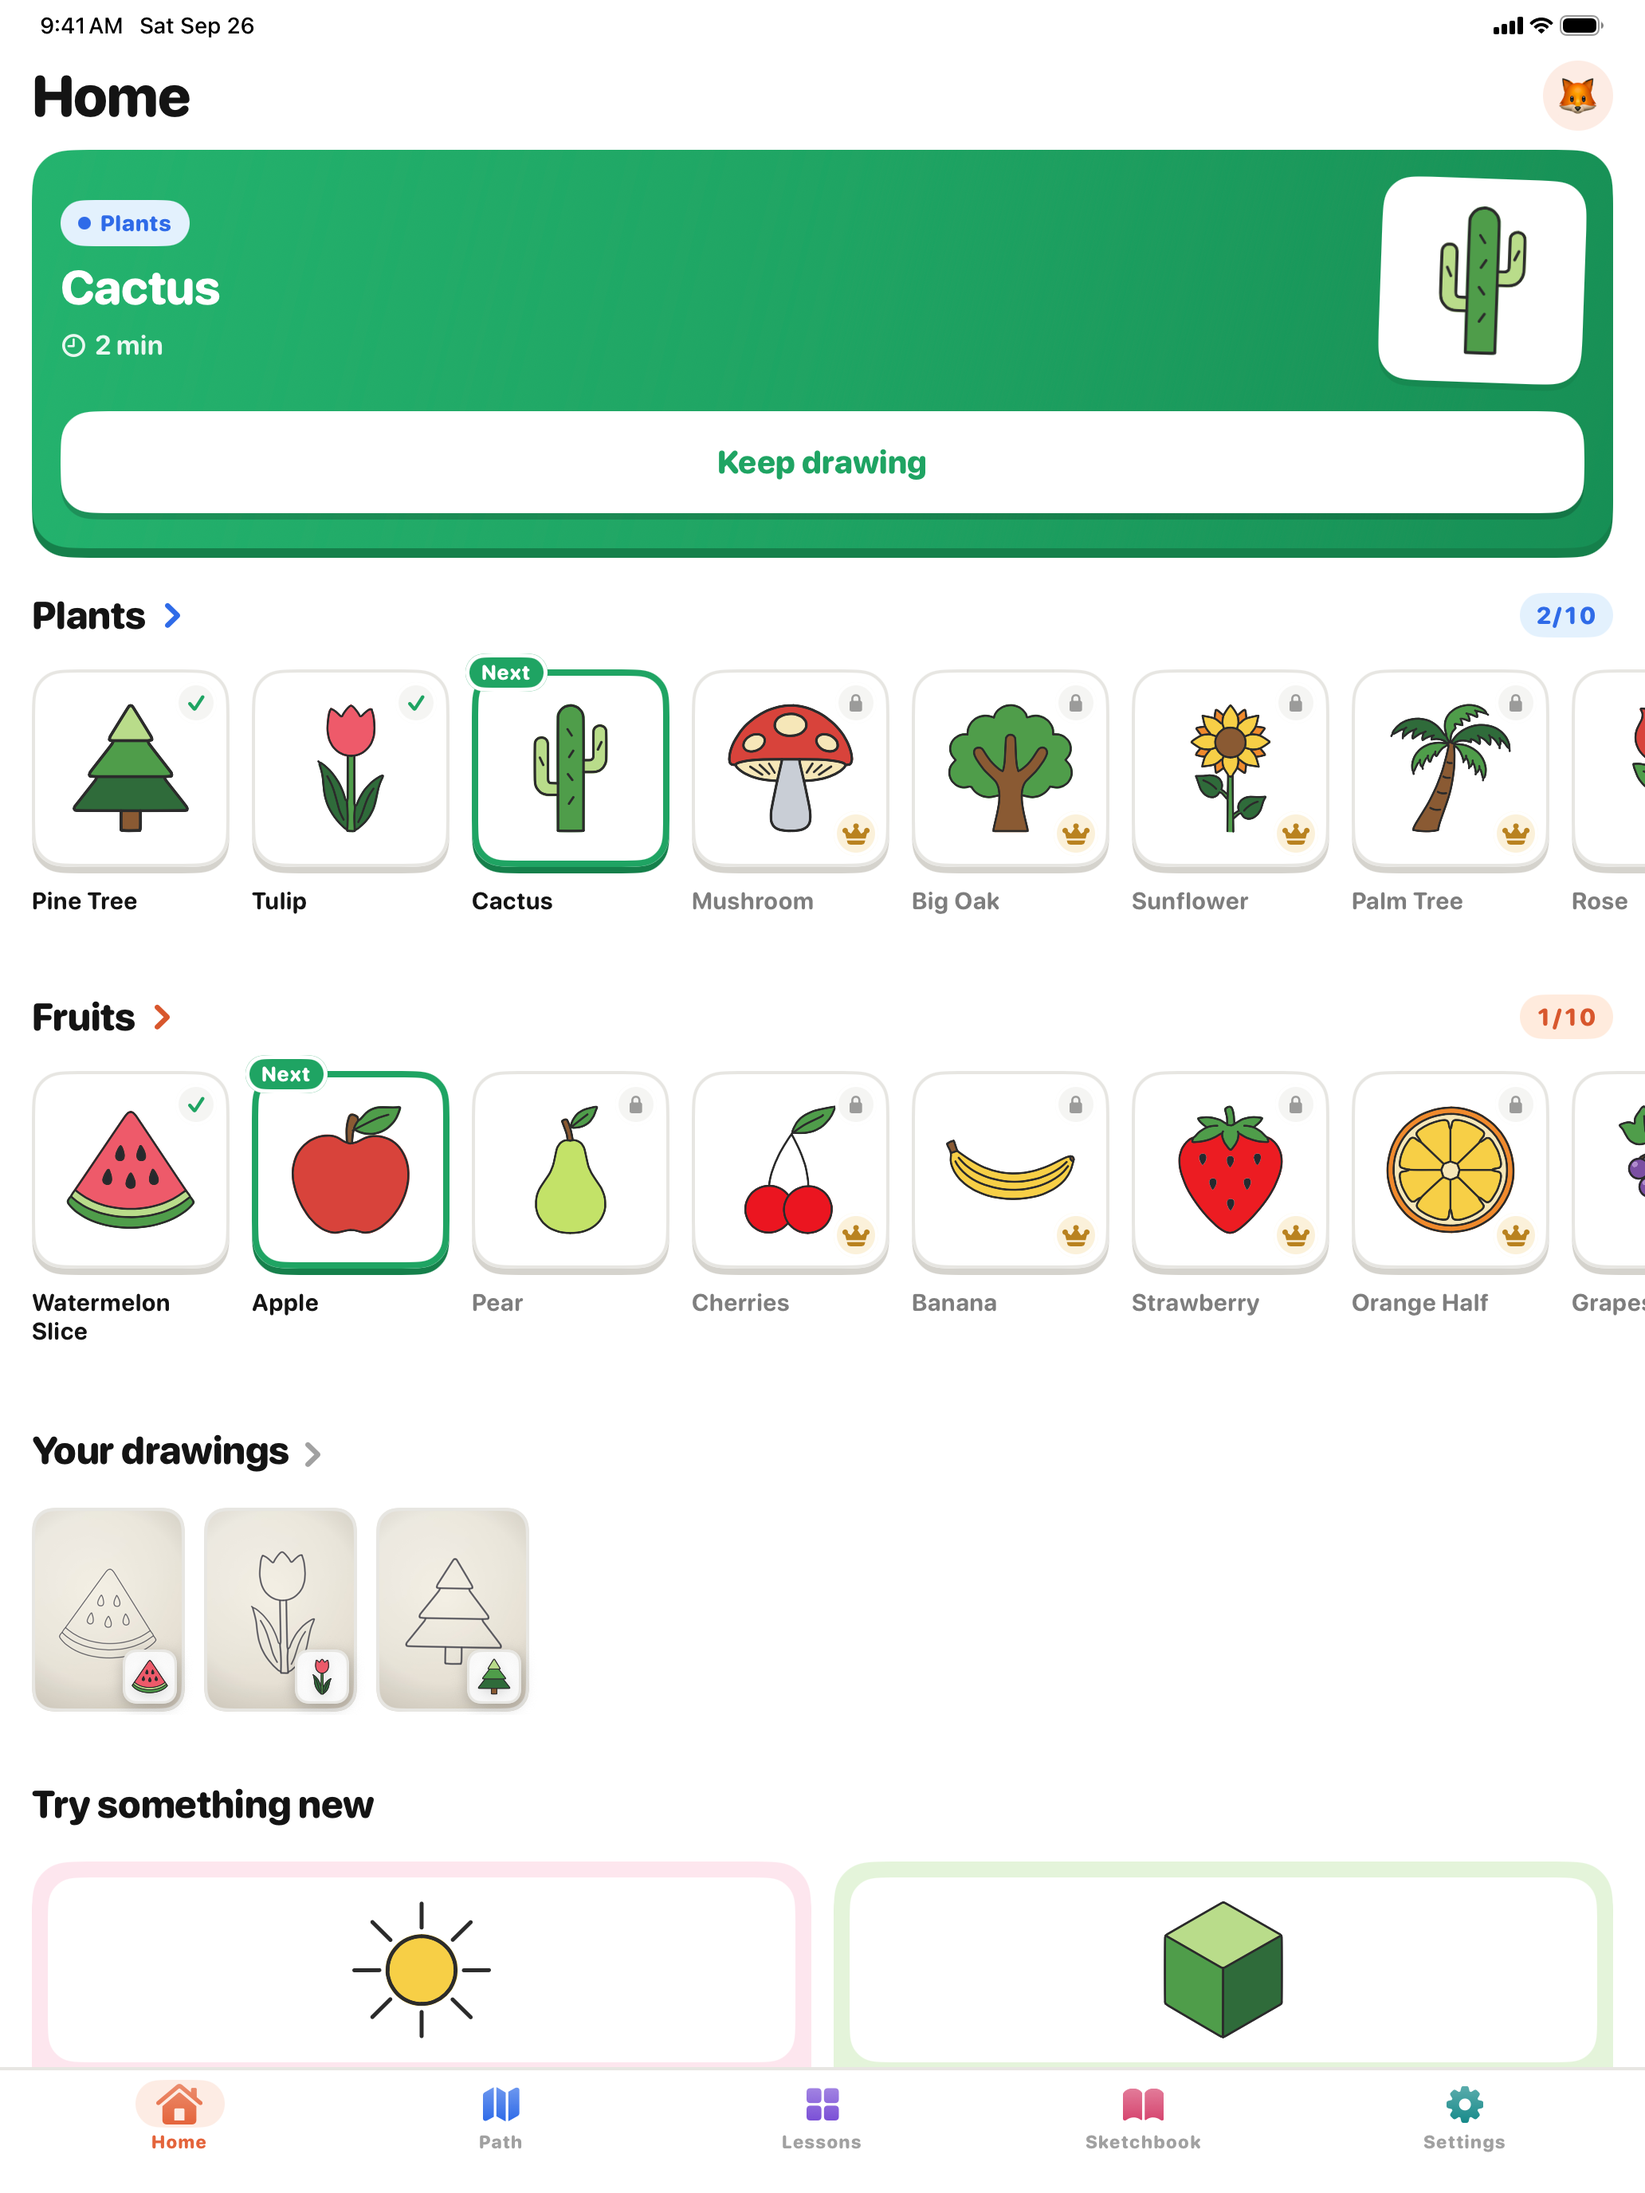
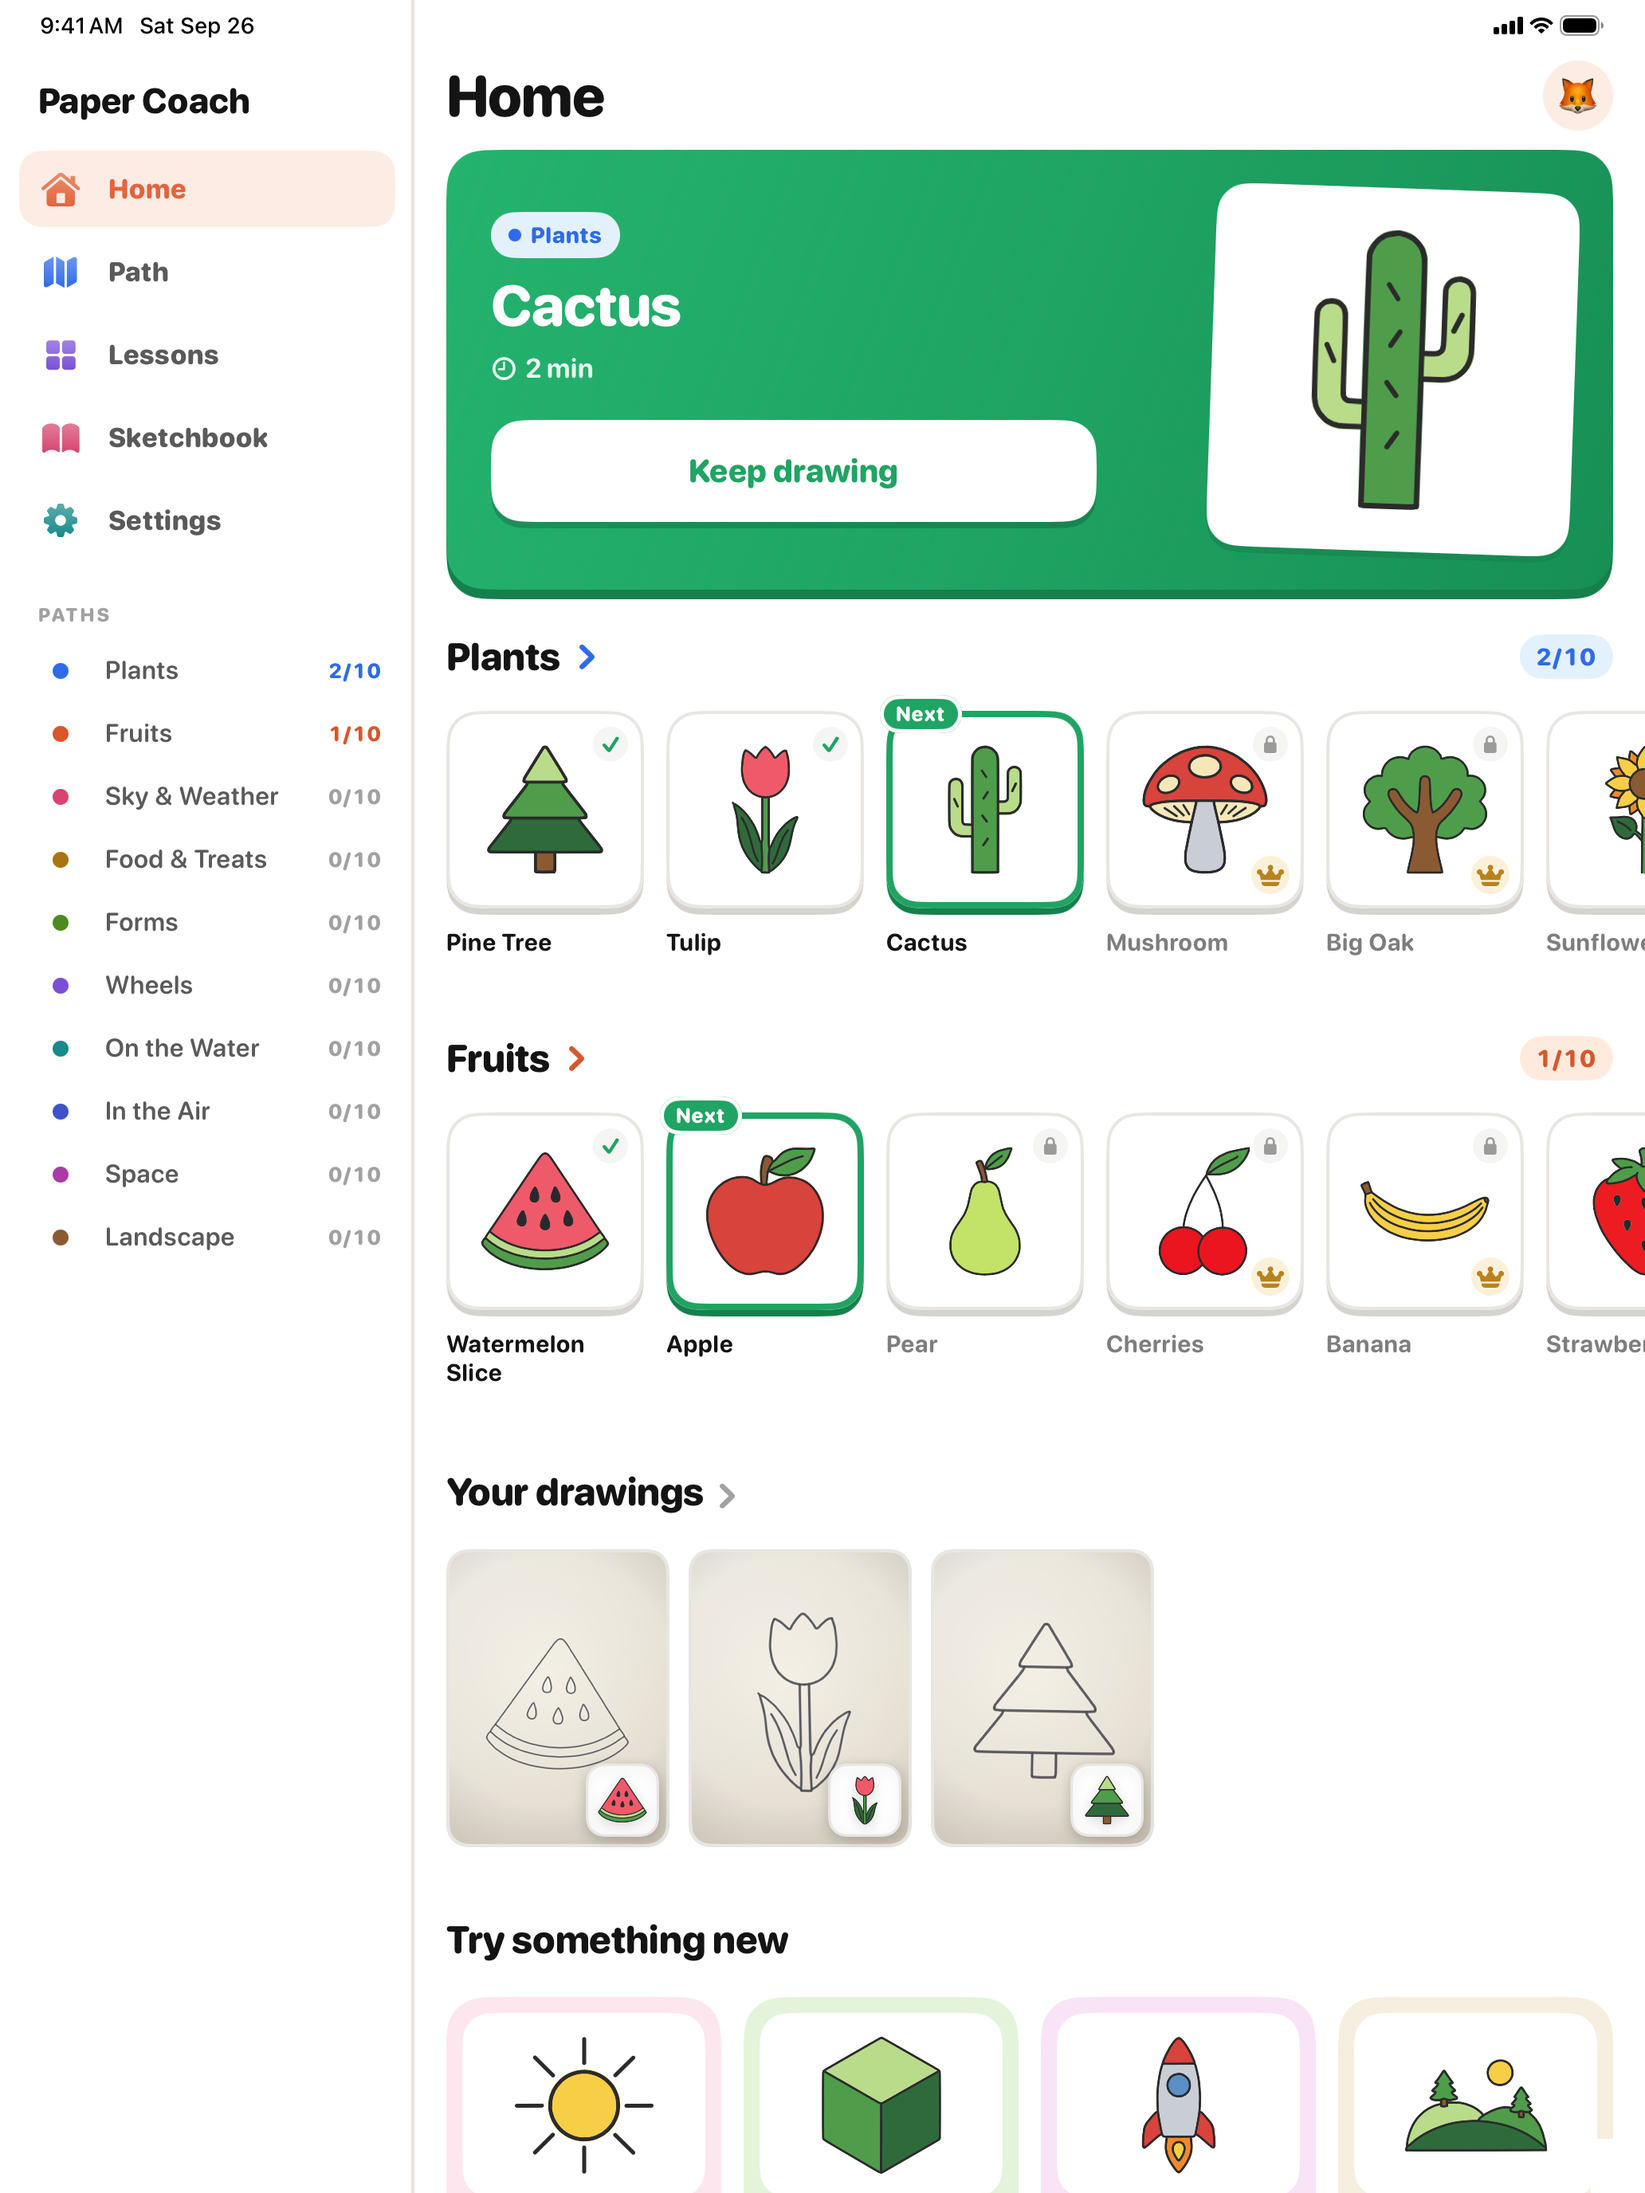
App Store art: iPad screenshots from the sidebar layout
3b377c7 gave the iPad a sidebar, a paper-sheet player and wide layouts, so all
eight iPad captures are retaken from a build of it and re-rendered. The iPhone
screens came out unchanged apart from anti-aliasing and so stay as they were.
The player's reference picture now loads a moment later, so capture.sh waits 8
seconds by default. These iPad shots go with a build that has 3b377c7; build 2,
in review, does not.

Changed region(s): [[0.0, 0.0312, 1.0, 0.625], [0.0, 0.6562, 0.9922, 1.0]]

diff --git a/docs/app-store/marketing/shots.js b/docs/app-store/marketing/shots.js
@@ -128,6 +128,12 @@ export const SHOTS = [
       { name: 'hot-air-balloon', x: 0.0, y: 0.11, size: 0.30, rot: -10 },
       { name: 'pencil:green', x: 1.0, y: 0.68, size: 0.58, rot: 62 },
     ],
+    ipad: {
+      stickers: [
+        { name: 'hot-air-balloon', x: -0.04, y: 0.08, size: 0.30, rot: -10 },
+        { name: 'pencil:green', x: 1.06, y: 0.84, size: 0.50, rot: 62 },
+      ],
+    },
   },
   {
     id: 'path',

diff --git a/docs/app-store/marketing/README.md b/docs/app-store/marketing/README.md
@@ -72,7 +72,9 @@ docs/app-store/marketing/capture.sh <ipad udid> ipad player-awaiting paths sketc
 node docs/app-store/marketing/render.mjs
 ```
 
-Home needs longer to settle than the other screens: capture it with `SETTLE=9`. Harness launches send no analytics
+Each screen gets 8 seconds to settle (the player's reference picture loads last); Home needs longer: capture it
+with `SETTLE=9`. The iPad captures are from the sidebar layout (commit `3b377c7`), so they go with a build that has
+it; the iPhone screens did not change. Harness launches send no analytics
 and never reach Superwall. On these simulators the iPad app opened full screen, not in a window.
 
 ## Credits
